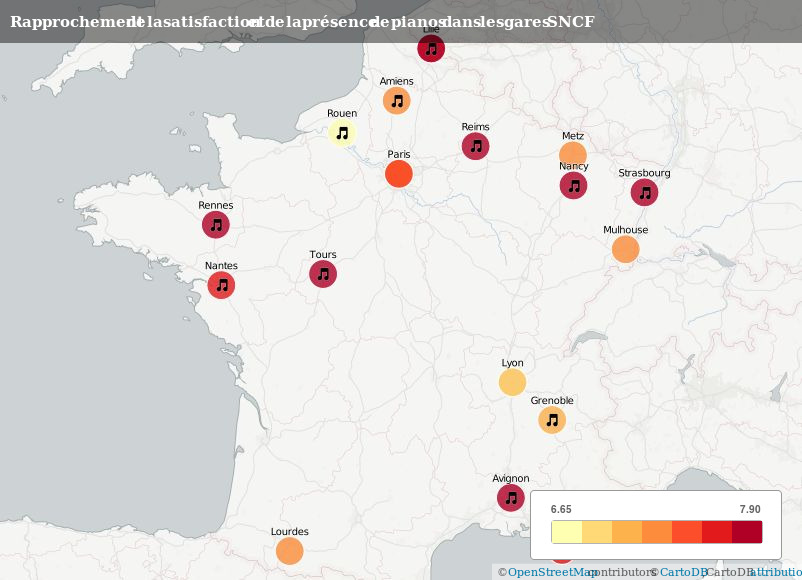
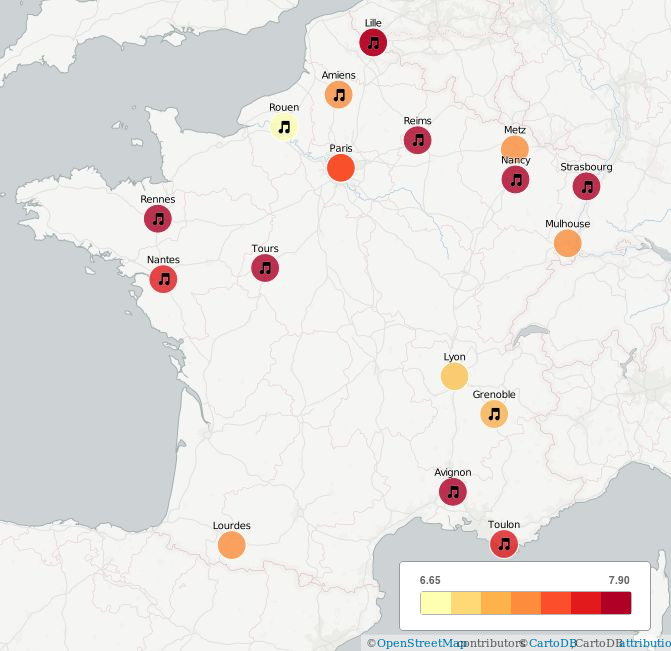
added DB examples

diff --git a/galerie.html b/galerie.html
@@ -37,15 +37,6 @@
             <li><a href="#section6">Programmation Créative 4</a></li>
         </ul>
     </div>
-    <!-- <p><a href="galerie_progcrea1.html">Programmation Créative 1</a></p>
-      <p><a href="galerie_progcrea1.html">Programmation Créative 2</a></p>
-      <p><a href="galerie_progcrea1.html">Introduction aux bases de données</a></p>
-      <p><a href="galerie_progcrea1.html">Programmation Créative 3</a></p>
-      <p><a href="galerie_progcrea1.html">Gestion de contenus et web</a></p>
-      <p><a href="galerie_progcrea1.html">Programmation Créative 4</a></p>
-       -->
-
-
 
     <div id="main">
         <div id="content">
@@ -114,9 +105,26 @@
                 </p>
 
                 <!--<div class="left2" >-->
-                <p align="middle">
-                    <img width=35% src="./galerie/[IntroBD]pianos_gares_sncf.jpg"> &nbsp
-                </p>
+                <div align="middle">
+                    <!-- <img width=35% src="./galerie/[IntroBD]pianos_gares_sncf.jpg"> &nbsp -->
+                <div class="gallerie_item"> 
+                        <iframe width="100%" height="500" frameborder="0" src="https://andrelimpens.cartodb.com/viz/8145fa36-68f4-11e5-b461-0ea31932ec1d/embed_map" allowfullscreen webkitallowfullscreen mozallowfullscreen oallowfullscreen msallowfullscreen></iframe>
+                        <p class="caption">
+                            Cartographie de la satisfaction des usagers des gares SNCF en France et rapprochement avec la présence ou non de pianos dans ces gares (signalée par la note de musique)
+                        </p>
+                </div>
+                <div class="gallerie_item"> 
+                    <iframe width='100%' height='500' frameborder='0' src='https://joris-delap.cartodb.com/viz/b72f056e-a587-11e5-bc9d-0ea31932ec1d/embed_map'></iframe>
+                    <p class="caption">
+                        Cartographie de la répartition par types de tous les évènements culturels en France en 2014
+                </div>
+                <div class="gallerie_item"> 
+                    <iframe width='100%' height='520' frameborder='0' src='https://junglecrew.cartodb.com/viz/37a32eb8-a02f-11e5-a2a5-0ecfd53eb7d3/embed_map' allowfullscreen webkitallowfullscreen mozallowfullscreen oallowfullscreen msallowfullscreen></iframe>
+                    
+                    <p class="caption">
+                        Comparaison des pays de l'UE en regard des pratiques de consommations (en jaune) rapportées aux pratiques de publication (en vert) de musique sur Internet. 
+                </div>
+                
             
             </section>
             

diff --git a/basic-noise2.css b/basic-noise2.css
@@ -277,3 +277,17 @@ header{
     /*same height as header*/
     visibility: hidden;
 }
+
+.gallerie_item{
+    width: 30%;
+    display: inline-block;
+    vertical-align: top;
+    margin: 10px;
+}
+
+.caption{
+    width:90%;
+    font-style: italic;
+    font-weight: lighter;
+    text-align: center;
+}
